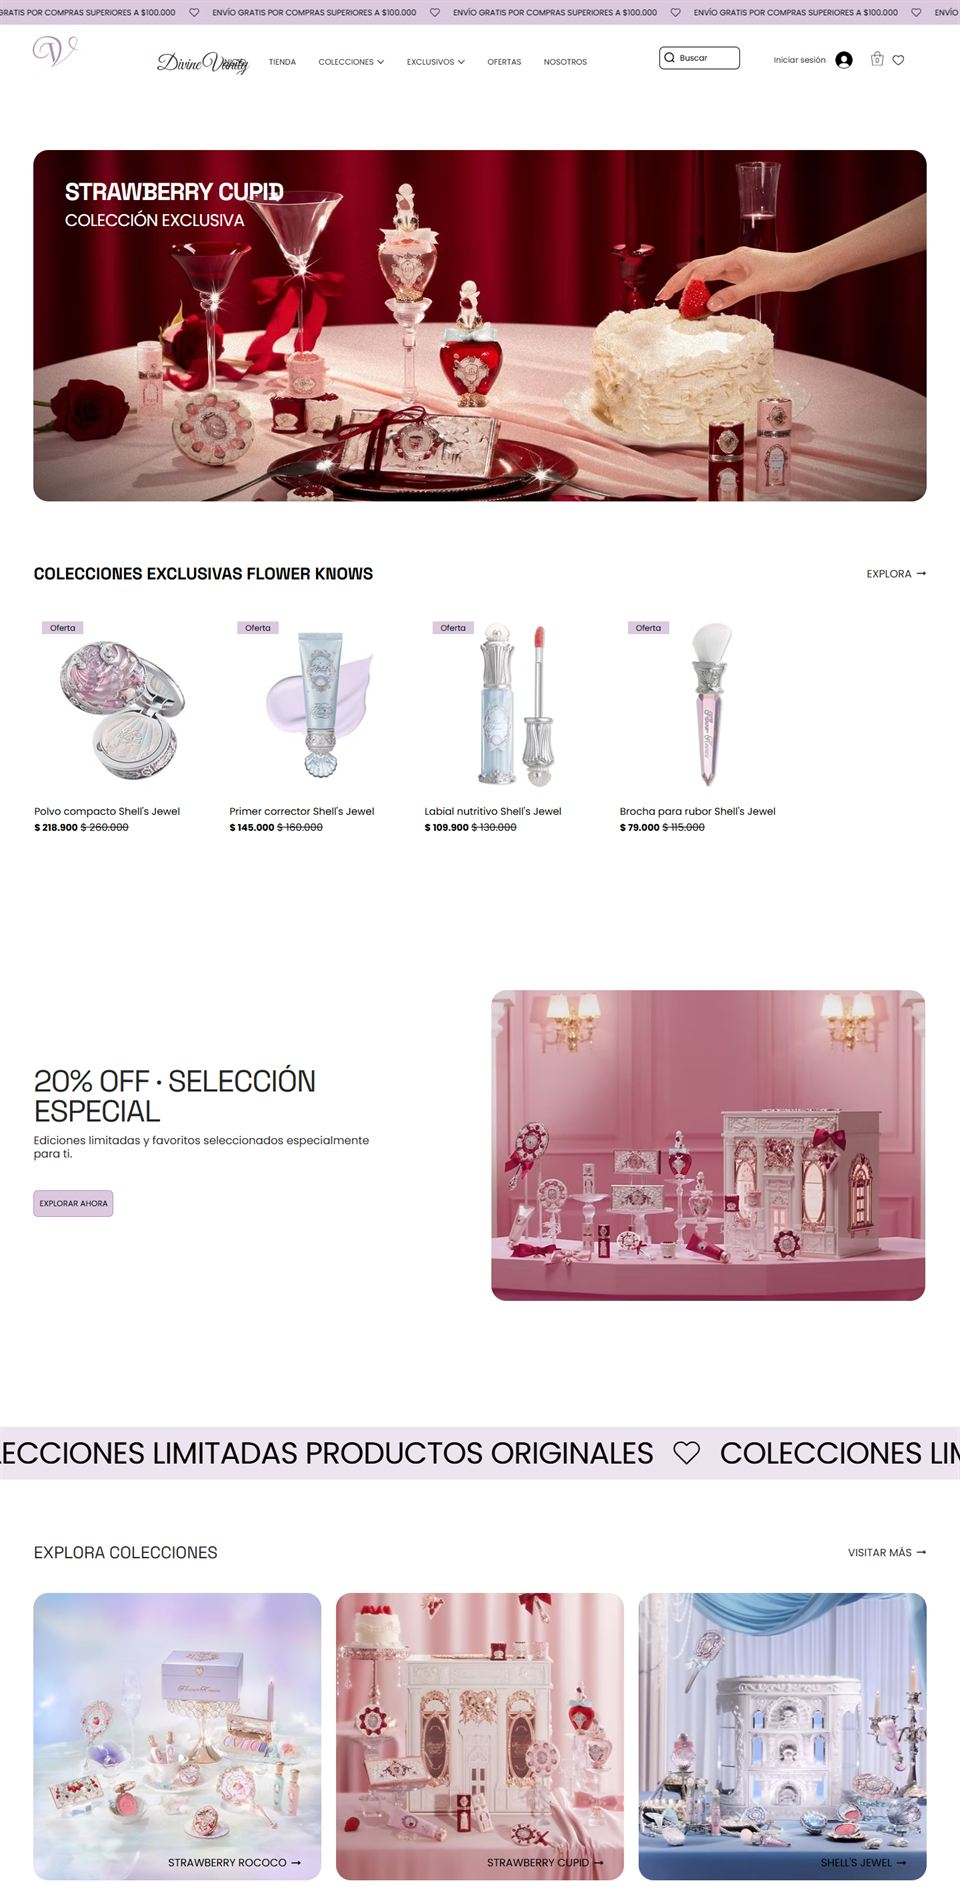
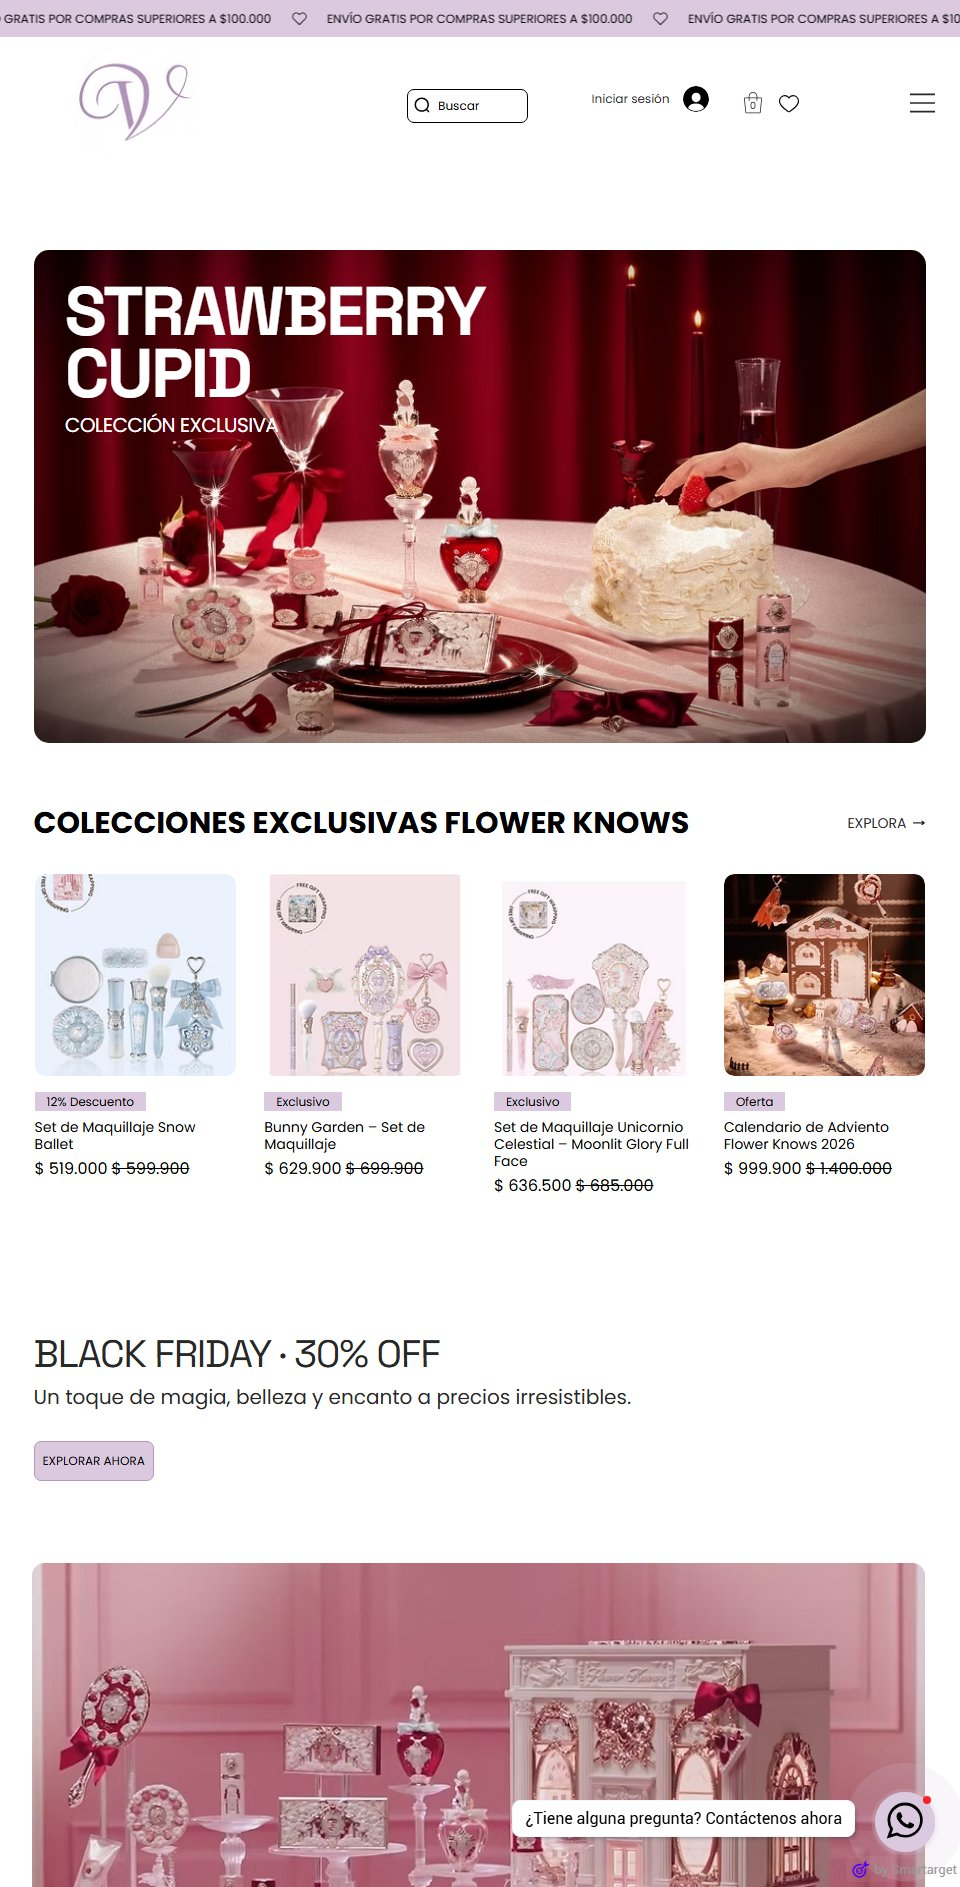
Divinevanity.co: vista previa actualizada y tarea semanal que la mantiene al día

diff --git a/docs/INFORME-TECNICO.md b/docs/INFORME-TECNICO.md
@@ -95,3 +95,4 @@ Foco visible en todos los controles, `aria-pressed` en conmutadores, pestañas a
 - Hero en modo claro: se quitó el desvanecimiento del texto al hacer scroll (heredado de `js/motion.js`) y se oscureció el degradado de «hecha».
 - Personajes 3D: los renders originales tienen un fondo gris plano (RGB 59,59,59). Se crearon versiones recortadas con transparencia (`assets/img/modelo-*-recorte.webp`, relleno desde los bordes con barrera en las siluetas y bordes suavizados) y se presentan en un estudio con foco y sombra de suelo que se adapta al tema. Los renders originales se conservan sin cambios.
 - Contacto: el formulario ya no depende de que la persona tenga un programa de correo. Envía el mensaje directo al correo con FormSubmit (`fetch` a `formsubmit.co/ajax/…`, apto para GitHub Pages), con campo trampa antispam, estado de envío y mensajes de error con alternativas (WhatsApp o correo). Nuevo botón «Enviar por WhatsApp» con el mensaje prellenado. Requiere activar FormSubmit una vez desde el correo.
+- Divinevanity.co: se reemplazó la captura de la sección Proyectos por una actual (mismo tamaño 960×1887) y se añadió `.github/workflows/actualizar-divinevanity.yml`, que cada lunes vuelve a capturar el sitio con Chrome sin ventana y publica la imagen solo si cambió (también se puede ejecutar a mano en GitHub → Actions → «Actualizar vista de Divinevanity.co» → Run workflow).

diff --git a/docs/RECURSOS-PENDIENTES.md b/docs/RECURSOS-PENDIENTES.md
@@ -8,3 +8,4 @@
 6. **Manual técnico (PDF).** El PDF original habla de los 6 juegos; no se modificó porque es un documento tuyo. Conviene actualizarlo.
 7. **Pruebas en dispositivos reales** (iPhone/Android, Safari, Firefox) y Lighthouse: pendientes, ver `INFORME-PRUEBAS.md`.
 8. **Formulario de contacto (activación única).** Los mensajes llegan a dannarb0444@gmail.com mediante FormSubmit. La primera vez que alguien envíe el formulario desde el sitio publicado, FormSubmit te enviará un correo «Action Required / Activate Form»: ábrelo y pulsa **Activate**. Desde ese momento todos los mensajes llegan directo a tu bandeja (revisa también Spam). El botón «Enviar por WhatsApp» abre WhatsApp con el mensaje listo para tu número +57 320 632 7941.
+9. **Vista previa de Divinevanity.co.** Se actualiza sola cada lunes con la tarea automática de GitHub Actions. Para actualizarla al instante: en GitHub abre la pestaña **Actions → Actualizar vista de Divinevanity.co → Run workflow**.
